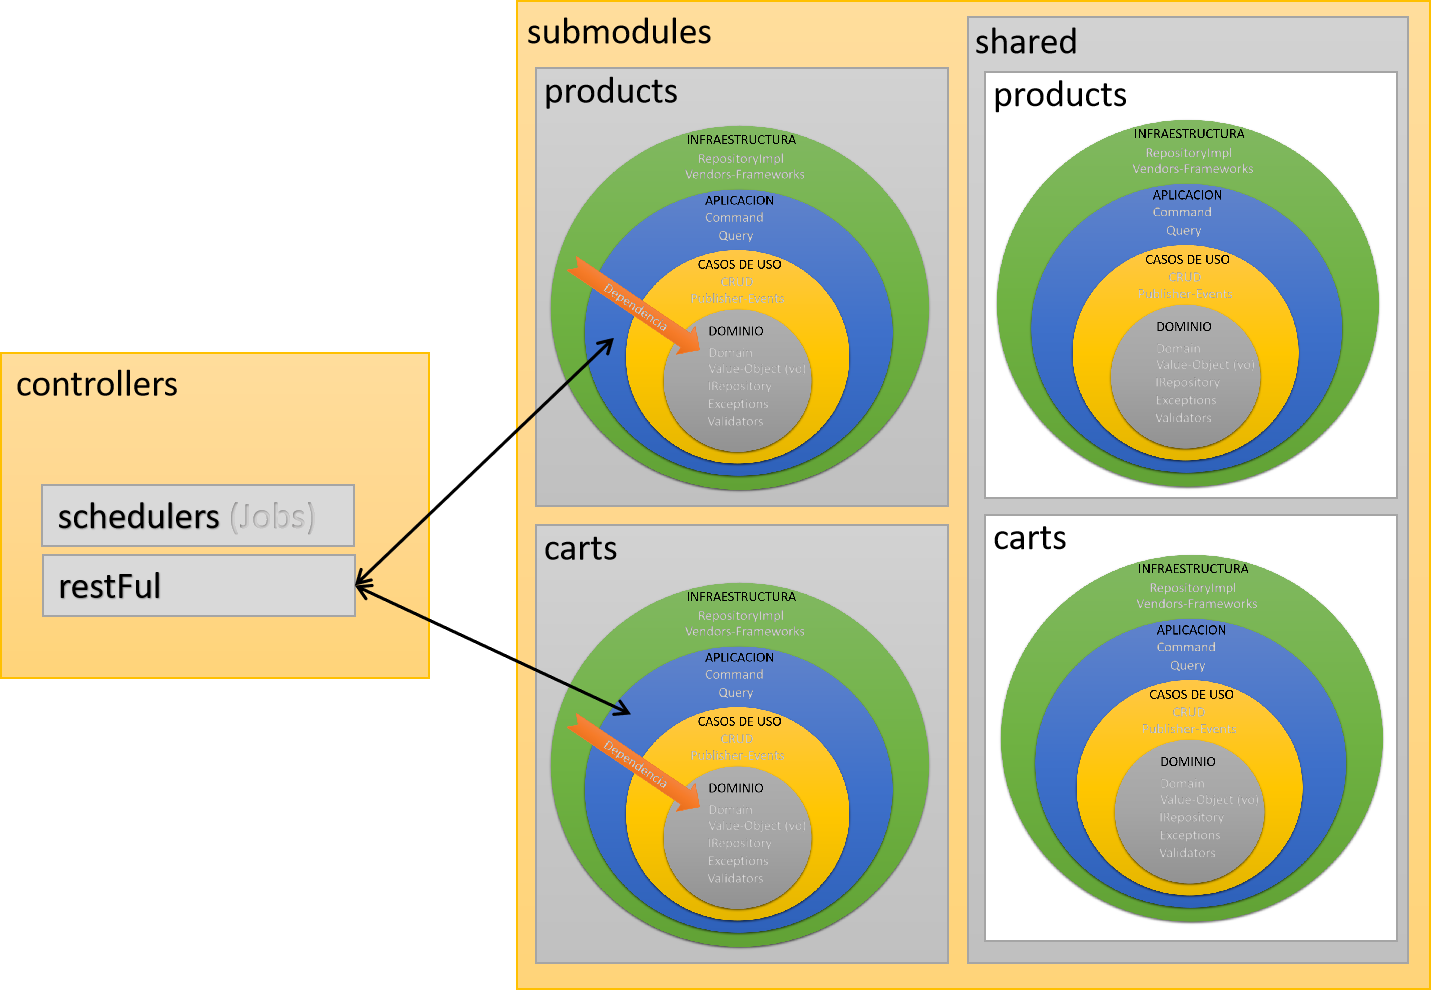
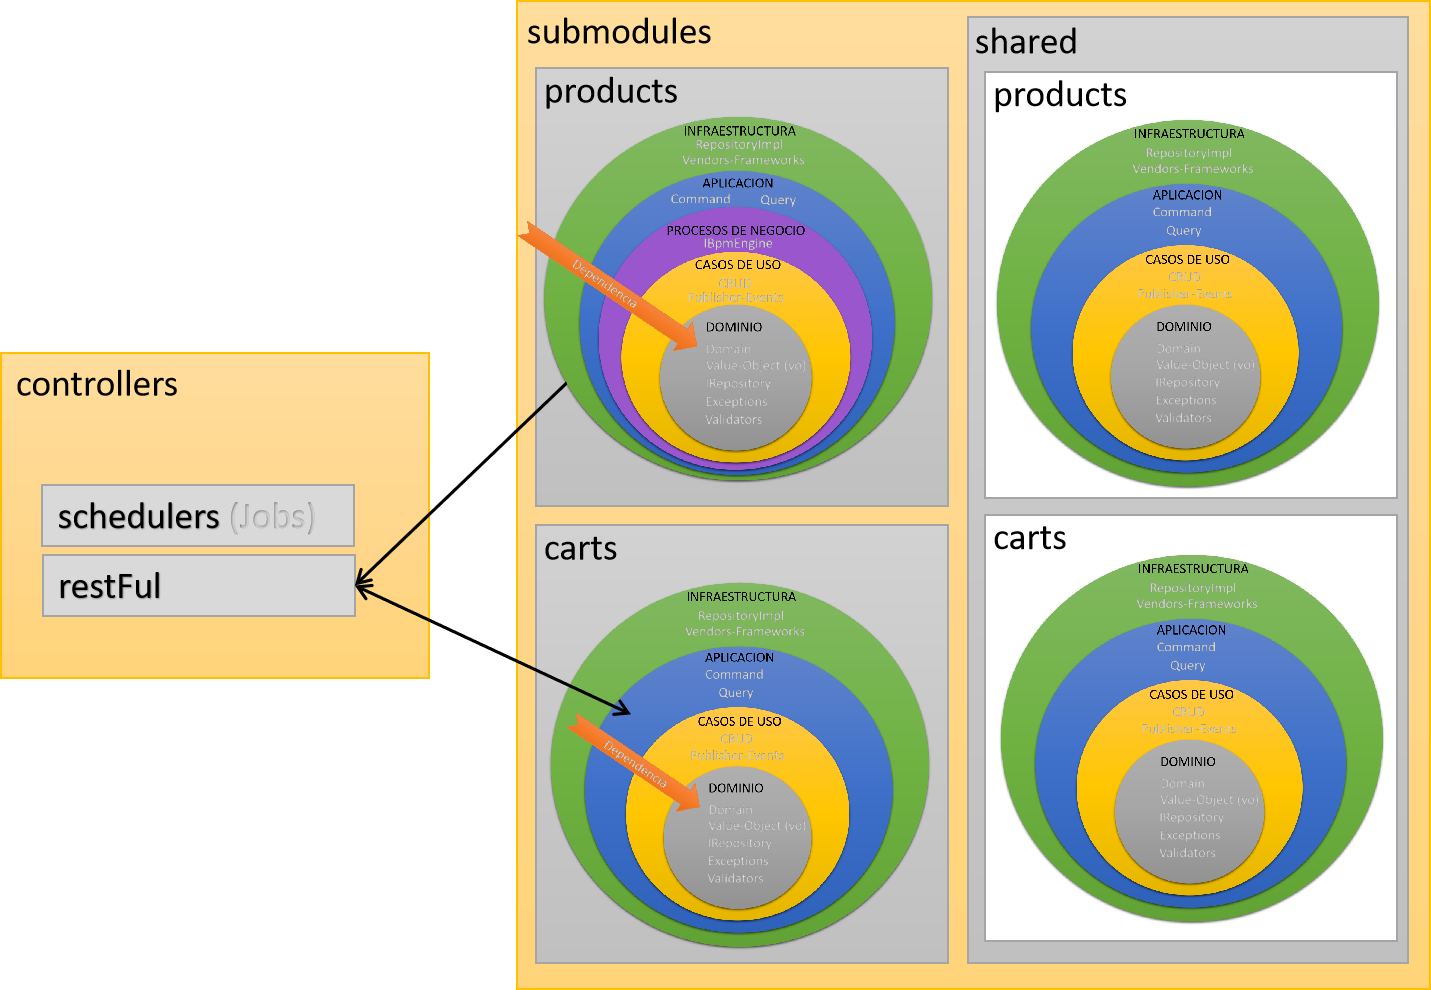
Ajustando el diagrama de paquetes del mosulo shopping

Changed region(s): [[0.369, 0.1212, 0.6765, 0.5152], [0.5842, 0.1515, 0.615, 0.1818]]

diff --git a/README.md b/README.md
@@ -12,9 +12,7 @@ Proyecto de referencia para construir aplicaciones Spring Boot. La siguiente es 
 ##### Diagrama de secuencia de la arquitectura capturando un evento sin BPM
 ![Diagrama de secuencia de la Arquitectura Capturando Evento](https://github.com/gotorresevo/proyecto-base-spring-boot/raw/camunda/assets/SequenceArquitecturaEventDomain.png "Diagrama de secuencia de la arquitectura capturando Evento")
 
-### Diagrama de casos de uso del ejemplo base
-![Diagrama de casos de uso del ejemplo base](https://github.com/gotorresevo/proyecto-base-spring-boot/raw/camunda/assets/UsesCases.png "Diagrama de caso de uso del ejemplo base")
-##### Cobertura de las pruebas unitarias del componente Base
+### Cobertura de las pruebas unitarias del componente Base
 ![Cobertura de las pruebas](https://github.com/gotorresevo/proyecto-base-spring-boot/raw/camunda/assets/ComponentTest.png "Cobertura de las pruebas")
 ##### Cobertura de las pruebas unitarias del componente sin BPM
 ![Cobertura de las pruebas Sin Bpm](https://github.com/gotorresevo/proyecto-base-spring-boot/raw/camunda/assets/ComponentTestWithoutBpm.png "Cobertura de las pruebas Sin Bpm")
@@ -24,10 +22,10 @@ Proyecto de referencia para construir aplicaciones Spring Boot. La siguiente es 
 ![Cobertura de las pruebas capturando Evento](https://github.com/gotorresevo/proyecto-base-spring-boot/raw/camunda/assets/ComponentTestEventDomain.png "Cobertura de las pruebas campturando Evento")
 
 ## Cobertura del caso de uso
-Cubre las capas de:  application, usecases y Domain. Para esta cobertura se propone Mockear los objetos de tipo "IRepository" y "IEventBus". La intension de esta cobertura es validar que el caso de uso cumple con los requisitos del negocio.
+Cubre las capas de:  Application, Business Process, Use Cases y Domain. Para esta cobertura se propone Mockear los objetos de tipo "IRepository" y "IEventBus". La intension de esta cobertura es validar que el caso de uso cumple con los requisitos del negocio.
 
 ## Cobertura del Controlador
-Cubre las capas de:  controllers, application, usecases y Domain. Para esta cobertura se propone Mockear los objetos de tipo "IRepository" y "IEventBus". La intension de esta cobertura es validar que el controlador reciba y retorne lo especificado en el Open Api Specification (Swagger).  
+Cubre las capas de:  Controllers, Application, Business Process, Use Cases y Domain. Para esta cobertura se propone Mockear los objetos de tipo "IRepository" y "IEventBus". La intension de esta cobertura es validar que el controlador reciba y retorne lo especificado en el Open Api Specification (Swagger).  
 
 ### Enlaces de interes
 
